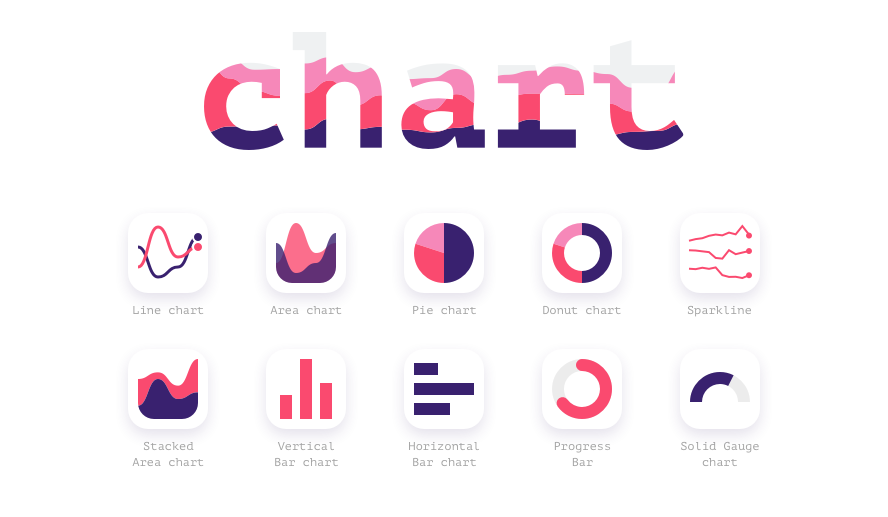
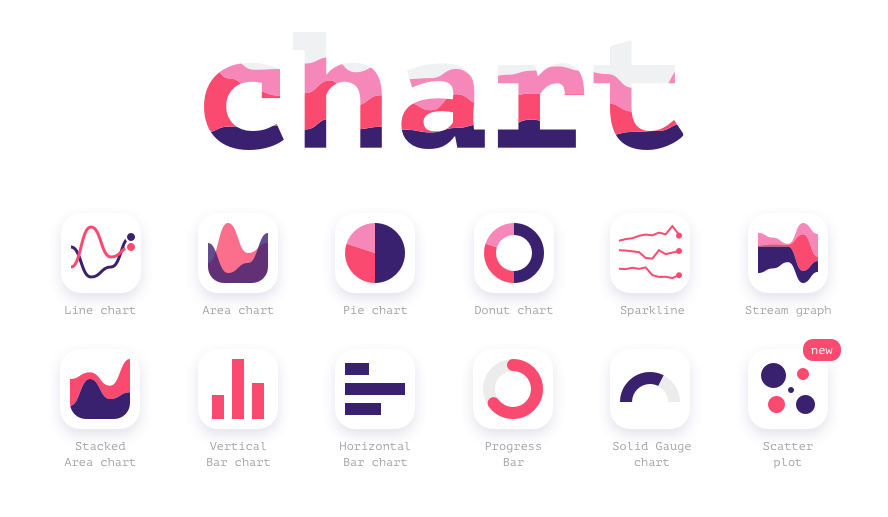
Version 2.8

diff --git a/Chart.sketchplugin/Contents/Sketch/scatterPlot.js b/Chart.sketchplugin/Contents/Sketch/scatterPlot.js
@@ -1,0 +1,134 @@
+var onRun = function(context){
+	var chartName = "Scatter plot";
+	var nameOne = "Categories";
+	var nameTwo = "Points";
+	@import 'common-mv.js'
+	@import 'parameters.js'
+
+
+	var bubble = false;
+	if (Number.isInteger(rowsLength/3) == 1){
+		var bubble = true;
+	}
+
+	var maxXArray = new Array();
+	var maxYArray = new Array();
+	var maxVArray = new Array();
+
+	if (bubble == false) {
+
+		var scatterCategories = rowsLength/2;
+		var catCount = 2;
+		var scatterPlotDConst = scatterPlotD;
+
+		for( var i = 0; i < scatterCategories; i++ ){
+			maxXArray[i] = Math.max.apply(null, rows[i * catCount]);
+		}
+		var dataXMax = Math.max.apply(null, maxXArray);
+
+		for( var j = 0; j < scatterCategories; j++ ){
+			maxYArray[j] = Math.max.apply(null, rows[j * catCount + 1]);
+		}
+		var dataYMax = Math.max.apply(null, maxYArray);
+
+	} else {
+		var scatterCategories = rowsLength/3;
+		var catCount = 3;
+
+		for( var k = 0; k < scatterCategories; k++ ){
+			maxVArray[k] = Math.max.apply(null, rows[k * catCount + 2]);
+		}
+		var scatterPlotDMax = Math.max.apply(null, maxVArray);
+		var scatterPlotDConst = 0.1 * widthCanvas;
+
+		for( var i = 0; i < scatterCategories; i++ ){
+			maxXArray[i] = Math.max.apply(null, rows[i * catCount]);
+		}
+		var dataXMax = Math.max.apply(null, maxXArray);
+
+		for( var j = 0; j < scatterCategories; j++ ){
+			maxYArray[j] = Math.max.apply(null, rows[j * catCount + 1]);
+		}
+		var dataYMax = Math.max.apply(null, maxYArray);
+	};
+
+	var xMaxRound = Math.round(dataXMax).toFixed(0);
+	var yMaxRound = Math.round(dataYMax).toFixed(0);
+
+	if (xMaxRound.length == 1){
+		if (xMaxRound <= 5){
+			dataXMax = 5;
+		} else {
+			dataXMax = 10;
+		};
+
+	} else {
+		var N = Math.pow(10, xMaxRound.length - 1);          
+		if (N == 10) {
+			dataXMax = (Math.floor(xMaxRound / N) + 1) * N;
+		} else {
+			dataXMax = (Math.floor(xMaxRound / 20) + 1) * 20;
+		};
+
+	};
+
+	if (yMaxRound.length == 1){
+		if (yMaxRound <= 5){
+			dataYMax = 5;
+		} else {
+			dataYMax = 10;
+		};
+
+	} else {
+		var N = Math.pow(10, yMaxRound.length - 1);          
+		if (N == 10) {
+			dataYMax = (Math.floor(yMaxRound / N) + 1) * N;
+		} else {
+			dataYMax = (Math.floor(yMaxRound / 20) + 1) * 20;
+		};
+
+	};
+
+
+	for (var i = 0; i < scatterCategories; i++){
+
+		for (var j = 0; j < rowLength; j++){
+
+			var pointX = (widthCanvas / dataXMax) * rows[i * catCount][j] + chartCanvas.frame().x();
+			var pointY = chartCanvas.frame().y() + heightCanvas - (heightCanvas / dataYMax) * rows[i * catCount + 1][j];
+
+			if ( bubble == true){ scatterPlotD = (scatterPlotDConst * rows[i * catCount + 2][j]) / scatterPlotDMax }
+
+			var scatterCircle = NSBezierPath.bezierPath();
+			[scatterCircle appendBezierPathWithArcWithCenter:NSMakePoint(pointX,pointY) radius:scatterPlotD/2 startAngle:0 endAngle:360];
+			var scatterShape = MSShapeGroup.shapeWithBezierPath(scatterCircle);
+			var fill = scatterShape.style().addStylePartOfType(0);
+			fill.color = MSColor.colorWithRed_green_blue_alpha(colorPalette[i][0]/255,colorPalette[i][1]/255,colorPalette[i][2]/255,0.8);
+
+			scatterShape.setName("scatterPoint_" + ( i + 1 ) + "_" + ( j + 1 ));
+
+			if (doc.currentPage().currentArtboard() === null){
+				doc.currentPage().addLayers([scatterShape]);
+			} else{
+				doc.currentPage().currentArtboard().addLayers([scatterShape]);
+			}
+
+			[scatterShape select:true byExpandingSelection:true];
+
+		};
+		
+	};
+
+	@import 'groupFromSelection.js'
+
+};
+
+
+
+
+
+
+
+
+
+

diff --git a/Chart.sketchplugin/Contents/Sketch/common-mv.js b/Chart.sketchplugin/Contents/Sketch/common-mv.js
@@ -1,0 +1,127 @@
+// Create variables for selected area and artboard
+var selection = context.selection;
+var doc = context.document;
+var page = [doc currentPage];
+
+var nameOne = "Categories";
+var nameTwo = "Points";
+
+if([selection count] == 0) {
+	[doc showMessage:"Select rectangle or oval layer"];
+} else {
+
+	// Define type of input data: numeric or undefined
+	var pasteboard = NSPasteboard.generalPasteboard();
+	var stringPasteboard = [pasteboard stringForType:NSPasteboardTypeString];
+	var jsString = String(stringPasteboard);
+
+	// Search letters
+	var numberString = jsString.replace(/\u0020/g, "").replace(/\u0009/g, "").replace(/\u000B/g, "").replace(/\u002C/g, "").replace(/\u002E/g, "").replace(/\u002D/g, "").replace(/\u0025/g, "").replace(/\u003B/g, "").replace(/\n/g, "");
+	var letterReg = /\D/;
+	var letters = letterReg.test(numberString);
+
+	if(letters != 0){ 
+
+		var accessoryView = NSView.alloc().initWithFrame(NSMakeRect(0.0, 0.0, 260.0, 40.0))
+
+	    var typeSelect = NSPopUpButton.alloc().initWithFrame(NSMakeRect(0.0, 10.0, 120.0, 25.0))
+	    	typeSelect.addItemsWithTitles(['Scatters','Bubbles'])
+	    	typeSelect.selectItemWithTitle('Scatters')
+		    accessoryView.addSubview(typeSelect)
+
+		
+	    var itemsInput = NSTextField.alloc().initWithFrame(NSMakeRect(140.0, 10.0, 120.0, 25.0))
+		    itemsInput.cell().setPlaceholderString(nameTwo)
+		    accessoryView.addSubview(itemsInput)
+		
+
+	    var alert = NSAlert.alloc().init()
+		    alert.setMessageText("Create random data for chart")
+		    alert.setAccessoryView(accessoryView)
+		    alert.addButtonWithTitle("OK")
+		    alert.addButtonWithTitle("Cancel")
+
+	    [[alert window] setInitialFirstResponder:itemsInput]
+
+		// Run popup
+		var responseCode = alert.runModal();
+
+		// Create random array
+		var dataMax = 100;
+		var typePlot = [typeSelect indexOfSelectedItem];
+
+		if (typePlot == 0) {
+			var linesCount = 2;
+			var rowsLength = 2;
+		} else {
+			var linesCount = 3;
+			var rowsLength = 3;
+		}
+
+		var rowLength = itemsInput.stringValue();
+		var pointsCount = itemsInput.stringValue();
+		var rows = new Array();
+
+		for (var i = 0; i < linesCount; i++){
+
+			var row = new Array();
+			rows[i] = row;
+
+			for (var j = 0; j < pointsCount; j++){
+					rows[i][j] = dataMax * Math.random();
+			}
+		}
+
+		for (var i = 0; i < linesCount; i++){
+
+			for (var j = 0; j < pointsCount; j++){
+					rows[i][j] = Math.round(rows[i][j]);
+			}
+		}
+
+	} else {
+
+		// Separate table data to array
+	    var rows = jsString.replace(/\u0025/g, "").replace(/\u003B/g, "").replace(/\u0020/g, "").replace(/\u0009/g, "\u0020").replace(/\u000B/g, "\u0020").replace(/\u002C/g, "\u0020").split("\n")
+		var rowsLength = rows.length;
+		for (var i = 0; i < rowsLength; i++) {
+			rows[i] = rows[i].split("\u0020");
+		};
+		var rowLength = rows[0].length;
+
+		var rowMax = new Array();
+		var rowsMax = new Array();
+		for (var j = 0; j < rowLength; j++){
+				rowMax[j] = 0;
+			}
+
+		for (var i = 0; i < rowsLength; i++){
+
+			for (var j = 0; j < rowLength; j++){
+				rowMax[j] = rowMax[j] + Math.abs(Number(rows[i][j]));
+				rows[i][j] = Number(rows[i][j]);
+			}
+
+			rowsMax[i] = Math.max.apply(null, rows[i]);
+			
+		};
+
+	};
+
+	// Create canvas for chart
+	var chartCanvas = selection.firstObject();
+	var heightCanvas = chartCanvas.frame().height();
+	var widthCanvas = chartCanvas.frame().width();
+	[page changeSelectionBySelectingLayers: nil];
+
+};
+
+
+
+
+
+
+
+
+
+

diff --git a/Chart.sketchplugin/Contents/Sketch/common.js b/Chart.sketchplugin/Contents/Sketch/common.js
@@ -14,7 +14,7 @@ if([selection count] == 0) {
 	var jsString = String(stringPasteboard);
 
 	// Search letters
-	var numberString = jsString.replace(/\u0020/g, "").replace(/\u0009/g, "").replace(/\u000B/g, "").replace(/\u002C/g, "").replace(/\u002E/g, "").replace(/\u002D/g, "").replace(/\n/g, "");
+	var numberString = jsString.replace(/\u0020/g, "").replace(/\u0009/g, "").replace(/\u000B/g, "").replace(/\u002C/g, "").replace(/\u002E/g, "").replace(/\u002D/g, "").replace(/\u0025/g, "").replace(/\u003B/g, "").replace(/\n/g, "");
 	var letterReg = /\D/;
 	var letters = letterReg.test(numberString);
 
@@ -133,7 +133,7 @@ if([selection count] == 0) {
 	} else {
 
 		// Separate table data to array
-	    var rows = jsString.replace(/\u0020/g, "").replace(/\u0009/g, "\u0020").replace(/\u000B/g, "\u0020").replace(/\u002C/g, "\u0020").split("\n")
+	    var rows = jsString.replace(/\u0025/g, "").replace(/\u003B/g, "").replace(/\u0020/g, "").replace(/\u0009/g, "\u0020").replace(/\u000B/g, "\u0020").replace(/\u002C/g, "\u0020").split("\n")
 		var rowsLength = rows.length;
 		for (var i = 0; i < rowsLength; i++) {
 			rows[i] = rows[i].split("\u0020");
@@ -212,10 +212,10 @@ if([selection count] == 0) {
 
 	} else {
 		var N = Math.pow(10, stringDataMax.length - 1);          
-		if (roundDataMax / N <= Math.floor(roundDataMax / N) + 0.5) {
-			dataMax = (Math.floor(roundDataMax / N) + 0.5) * N;
+		if (N == 10) {
+			dataXMax = (Math.floor(roundDataMax / N) + 1) * N;
 		} else {
-			dataMax = (Math.floor(roundDataMax / N) + 1) * N;
+			dataXMax = (Math.floor(roundDataMax / 20) + 1) * 20;
 		};
 
 	};

diff --git a/Chart.sketchplugin/Contents/Sketch/parameters.js b/Chart.sketchplugin/Contents/Sketch/parameters.js
@@ -52,3 +52,9 @@ var sparkColor = [52,52,52];
 var borderThicknessSpark = 1;
 var endWidthSpark = 4;
 var sparkPointsCount = 20;
+
+// Parameters for Scatter Plot
+var scatterPlotD = 8; 
+
+
+
